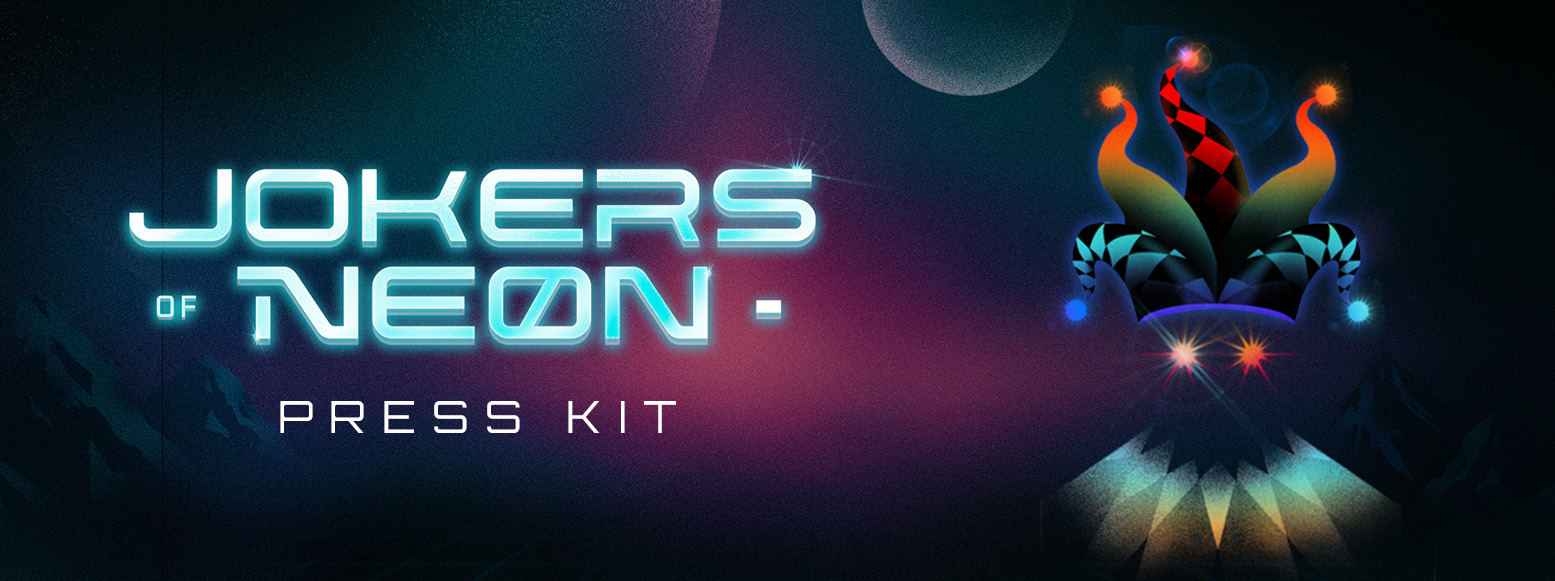
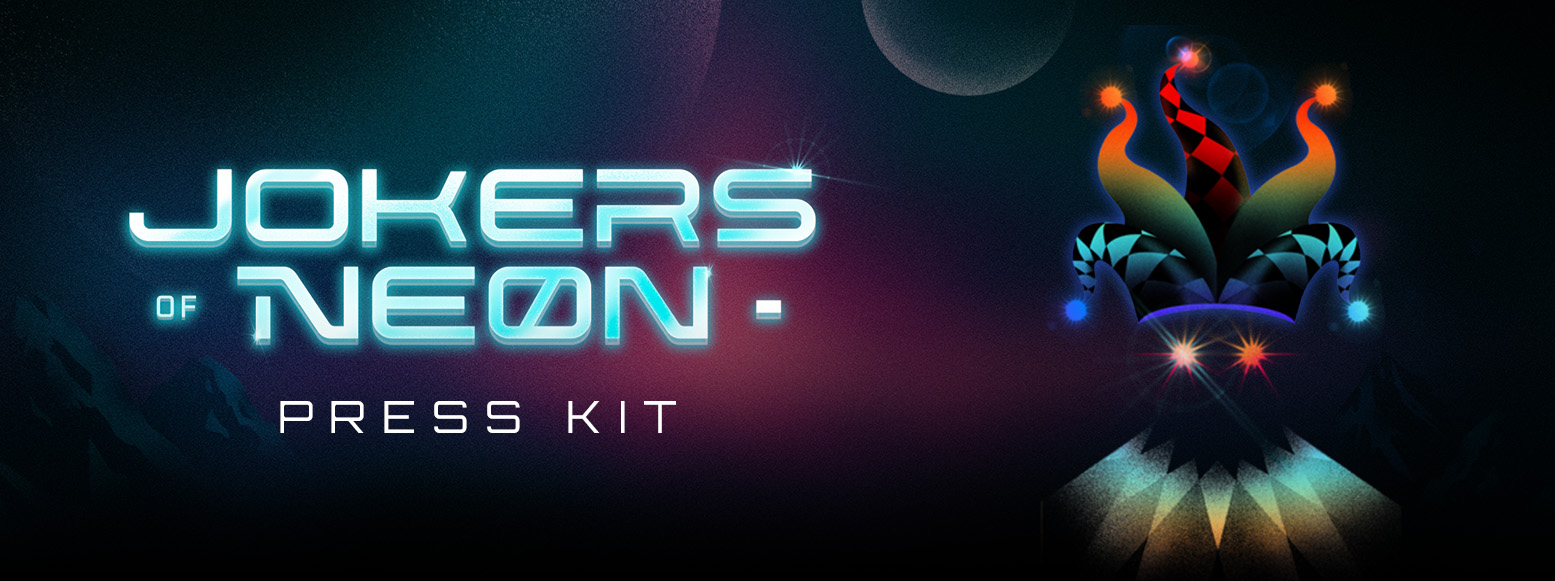
Blend header image on scroll

diff --git a/src/theme/PresskitPage.tsx b/src/theme/PresskitPage.tsx
@@ -76,7 +76,7 @@ const standoutItems: FeatureItem[] = [
     title: "Poker-based scoring",
     description: (
       <>
-        Build hands, optimize <VioletKeyword>probabilities</VioletKeyword>, and score big through{" "}
+        Build hands, optimize probabilities, and score big through{" "}
         <VioletKeyword>poker combinations</VioletKeyword> instead of traditional combat.
       </>
     ),
@@ -85,7 +85,7 @@ const standoutItems: FeatureItem[] = [
     title: "Run-defining synergies",
     description: (
       <>
-        <VioletKeyword>Special Cards</VioletKeyword> can completely reshape how a run plays, enabling{" "}
+        Special Cards can completely reshape how a run plays, enabling{" "}
         <VioletKeyword>deep combos</VioletKeyword> and surprising strategies.
       </>
     ),
@@ -103,8 +103,7 @@ const standoutItems: FeatureItem[] = [
     title: "Competitive leaderboards",
     description: (
       <>
-        Players compete across <VioletKeyword>daily</VioletKeyword>,{" "}
-        <VioletKeyword>weekly</VioletKeyword>, and seasonal rankings for rewards and status.
+        Players compete across daily, weekly, and seasonal rankings for rewards and status.
       </>
     ),
   },
@@ -112,7 +111,7 @@ const standoutItems: FeatureItem[] = [
     title: "Fully on-chain",
     description: (
       <>
-        Game logic and assets live on <VioletKeyword>Starknet</VioletKeyword>, bringing transparency and
+        Game logic and assets live on Starknet, bringing <VioletKeyword>transparency</VioletKeyword> and
         permanence to progression and ownership.
       </>
     ),
@@ -121,8 +120,8 @@ const standoutItems: FeatureItem[] = [
     title: "Tradable cards",
     description: (
       <>
-        Seasonal <VioletKeyword>Special Cards</VioletKeyword> are NFTs that players can use in-game and
-        trade in a marketplace.
+        Seasonal Special Cards are <VioletKeyword>NFTs</VioletKeyword> that players can use in-game and{" "}
+        <VioletKeyword>trade in a marketplace</VioletKeyword>.
       </>
     ),
   },
@@ -161,8 +160,7 @@ const gameLoopSteps: FeatureItem[] = [
     description: (
       <>
         The heart of the game is combining <VioletKeyword>effects</VioletKeyword> and scaling your score run
-        after run, while adapting your build to tougher <VioletKeyword>boss rounds</VioletKeyword> and{" "}
-        <VioletKeyword>rage rounds</VioletKeyword>.
+        after run, while adapting your build to tougher boss rounds called <VioletKeyword>rage rounds</VioletKeyword>.
       </>
     ),
   },
@@ -352,8 +350,9 @@ const TeaserPitchBlock = ({ autoplay }: { autoplay: boolean }) => (
   <Grid templateColumns={{ base: "1fr", lg: "1.05fr 0.95fr" }} gap={6} alignItems="center">
     <VStack align="stretch" spacing={4}>
       <Text fontSize={{ base: "md", md: "lg" }} lineHeight={1.8}>
-        Jokers of Neon is a fully on-chain roguelike card game built on Starknet, combining poker mechanics, deck-building strategy, and a
-        seasonal TCG meta with <BlueKeyword>real asset ownership</BlueKeyword>.
+        Jokers of Neon is a fully on-chain roguelike card game built on Starknet, combining{" "}
+        <BlueKeyword>poker mechanics</BlueKeyword>, <BlueKeyword>deck-building strategy</BlueKeyword>, and a{" "}
+        <BlueKeyword>seasonal TCG meta</BlueKeyword> with real asset ownership.
       </Text>
       <Box {...cardStyles}>
         <Text fontSize={{ base: "md", md: "lg" }} lineHeight={1.7} fontWeight="medium">
@@ -446,15 +445,15 @@ const SpecialCardsBlock = () => (
   <Grid templateColumns={{ base: "1fr", lg: "1fr 1fr" }} gap={6} alignItems="center">
     <VStack align="stretch" spacing={4}>
       <Text fontSize={{ base: "md", md: "lg" }} lineHeight={1.8}>
-        <BlueKeyword>Special Cards</BlueKeyword> are the strategic core of Jokers of Neon.
+        Special Cards are the <BlueKeyword>strategic core of Jokers of Neon</BlueKeyword>.
       </Text>
       <Text fontSize={{ base: "md", md: "lg" }} lineHeight={1.8}>
         These cards apply <BlueKeyword>powerful effects</BlueKeyword> that influence your entire run and
         often determine the type of build you want to pursue.
       </Text>
       <Text fontSize={{ base: "md", md: "lg" }} lineHeight={1.8}>
-        Some reward <BlueKeyword>specific poker hands</BlueKeyword>. Others change how your deck scales, how
-        your score grows, or how efficiently you can play.
+        Some reward specific poker hands. Others change how your deck scales, how your score grows, or how
+        efficiently you can play.
       </Text>
       <Text fontSize={{ base: "md", md: "lg" }} lineHeight={1.8}>
         The fun comes from stacking these effects, discovering <BlueKeyword>synergies</BlueKeyword>, and
@@ -544,10 +543,10 @@ const AboutStudioBlock = () => (
     <VStack align="stretch" spacing={4}>
       <Text fontSize={{ base: "md", md: "lg" }} lineHeight={1.8}>
         Caravana Studio is an <BlueKeyword>independent game studio</BlueKeyword> building competitive,
-        replayable, and ownership-driven games on Starknet.
+        replayable, and ownership-driven games.
       </Text>
       <Text fontSize={{ base: "md", md: "lg" }} lineHeight={1.8}>
-        The team combines <BlueKeyword>game design</BlueKeyword>, frontend development, and blockchain
+        The team combines game design, frontend development, and blockchain
         infrastructure to create experiences that connect traditional gameplay depth with Web3-native systems.
       </Text>
     </VStack>
@@ -635,6 +634,7 @@ const FixedCardsBackgroundBand = () => (
 export const PresskitPage = () => {
   usePresskitSeo();
   const [showBackToTop, setShowBackToTop] = useState(false);
+  const [heroScrollProgress, setHeroScrollProgress] = useState(0);
   const [autoplayTeaser, setAutoplayTeaser] = useState(false);
   const [autoplayCoreLoop, setAutoplayCoreLoop] = useState(false);
   const teaserRef = useRef<HTMLDivElement | null>(null);
@@ -643,6 +643,8 @@ export const PresskitPage = () => {
   useEffect(() => {
     const onScroll = () => {
       setShowBackToTop(window.scrollY > 900);
+      const progress = Math.min(window.scrollY / 360, 1);
+      setHeroScrollProgress(progress);
     };
     onScroll();
     window.addEventListener("scroll", onScroll, { passive: true });
@@ -675,7 +677,7 @@ export const PresskitPage = () => {
     <Box
       minH="100vh"
       color="white"
-      bg="radial-gradient(120% 120% at 0% 0%, rgba(6,107,155,0.34) 0%, rgba(3,6,16,1) 48%, rgba(0,0,0,1) 100%)"
+      bg="black"
       position="relative"
       py={0}
       px={0}
@@ -695,14 +697,23 @@ export const PresskitPage = () => {
           width="100%"
           height={{ base: "auto", md: "360px", lg: "460px" }}
           objectFit={{ base: "cover", md: "cover" }}
+          filter={`blur(${(heroScrollProgress * 6).toFixed(2)}px) brightness(${(1 - heroScrollProgress * 0.35).toFixed(2)})`}
+          transition="filter 120ms linear"
+          willChange="filter"
           display="block"
+        />
+        <Box
+          position="absolute"
+          inset={0}
+          bg={`rgba(0, 0, 0, ${(heroScrollProgress * 0.35).toFixed(2)})`}
+          pointerEvents="none"
         />
       </Box>
 
       <Box
         position="relative"
         zIndex={1}
-        mt={0}
+        mt="-2px"
         pt={{ base: 10, md: 16 }}
         pb={{ base: 10, md: 14 }}
         bg="radial-gradient(120% 120% at 0% 0%, rgba(6,107,155,0.5) 0%, rgba(3,6,16,0.98) 45%, rgba(0,0,0,0.98) 100%)"
@@ -805,17 +816,17 @@ export const PresskitPage = () => {
               <PresskitSection id="web3-matters" title="Why It Matters for Web3">
                 <VStack align="stretch" spacing={4}>
                   <Text fontSize={{ base: "md", md: "lg" }} lineHeight={1.8}>
-                    Jokers of Neon is <BlueKeyword>fully on-chain</BlueKeyword>, with verifiable game logic,
-                    transparent scarcity, and assets that exist beyond the client itself.
+                    Jokers of Neon is fully on-chain, with <BlueKeyword>verifiable game logic</BlueKeyword>,{" "}
+                    <BlueKeyword>transparent scarcity</BlueKeyword>, and assets that exist beyond the client
+                    itself.
                   </Text>
                   <Text fontSize={{ base: "md", md: "lg" }} lineHeight={1.8}>
-                    Rather than using blockchain as a cosmetic add-on, the game treats{" "}
-                    <BlueKeyword>ownership</BlueKeyword>, permanence, and open economies as part of its core
-                    design.
+                    Rather than using blockchain as a cosmetic add-on, the game treats ownership, permanence,
+                    and open economies as part of its core design.
                   </Text>
                   <Text fontSize={{ base: "md", md: "lg" }} lineHeight={1.8}>
                     The result is a game that aims to stay accessible to traditional players while remaining
-                    genuinely native to <BlueKeyword>Web3 infrastructure</BlueKeyword>.
+                    genuinely native to Web3 infrastructure.
                   </Text>
                 </VStack>
               </PresskitSection>

diff --git a/src/Components/HomeSection.tsx b/src/Components/HomeSection.tsx
@@ -95,6 +95,9 @@ export const HomeSection = ({}: HomeSectionProps) => {
         >
           Trailer
         </Link>
+        <RouterLink to="/presskit" style={{ cursor: "pointer" }}>
+          Press Kit
+        </RouterLink>
         <RouterLink to="/stats" style={{ cursor: "pointer" }}>
           Stats
         </RouterLink>
@@ -193,6 +196,20 @@ export const HomeSection = ({}: HomeSectionProps) => {
                 >
                   CONTACT
                 </Text>
+              </Box>
+
+              <Box sx={lineStyle}>
+                <RouterLink to="/presskit" style={{ textDecoration: "none" }}>
+                  <Text
+                    textAlign="center"
+                    fontSize="xl"
+                    letterSpacing="wider"
+                    fontWeight="light"
+                    fontFamily={"Orbitron"}
+                  >
+                    PRESS KIT
+                  </Text>
+                </RouterLink>
               </Box>
 
               <Box sx={lineStyle}>
